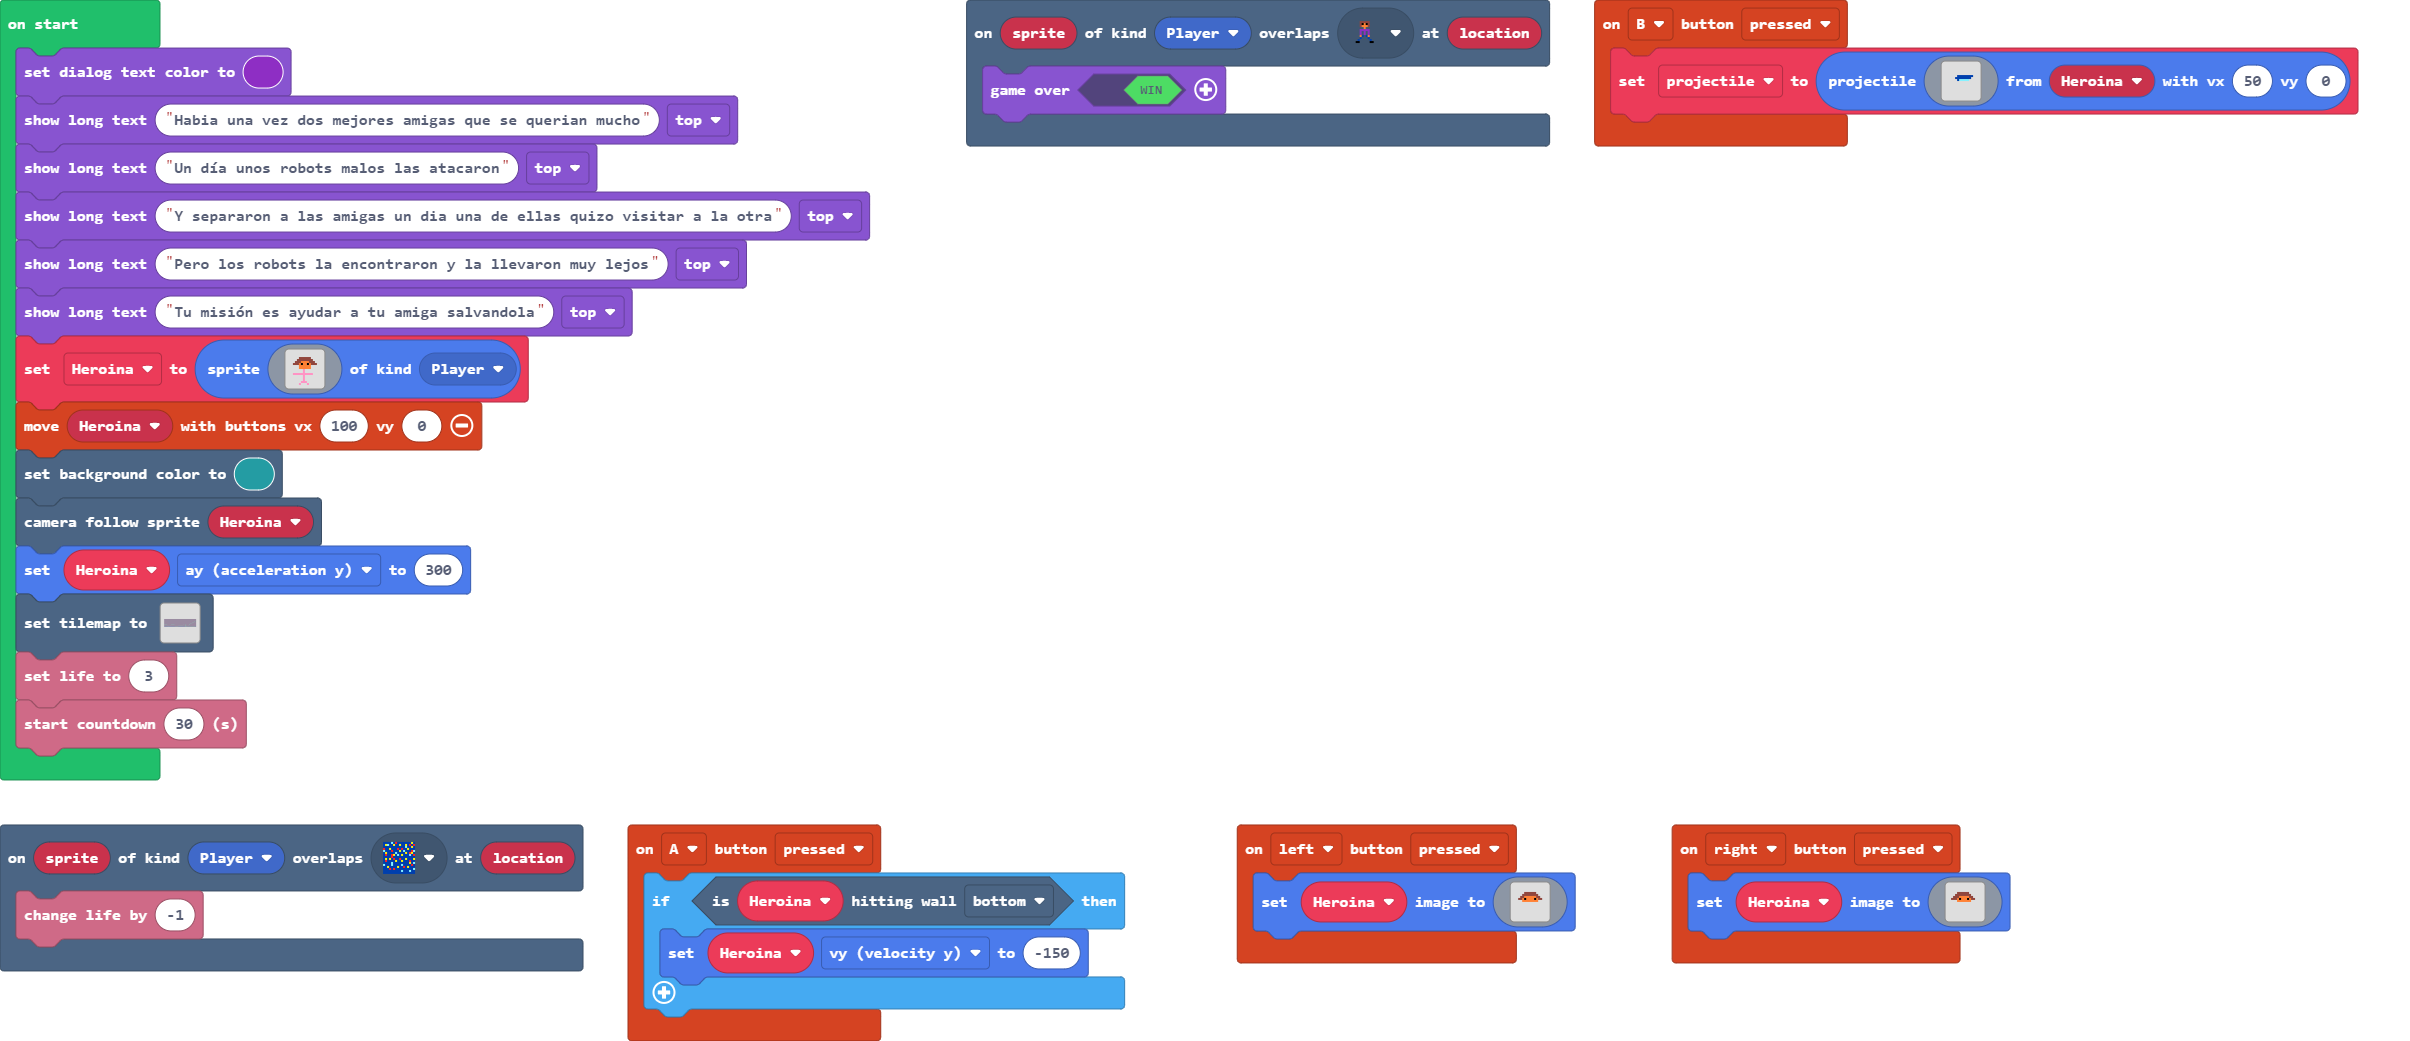
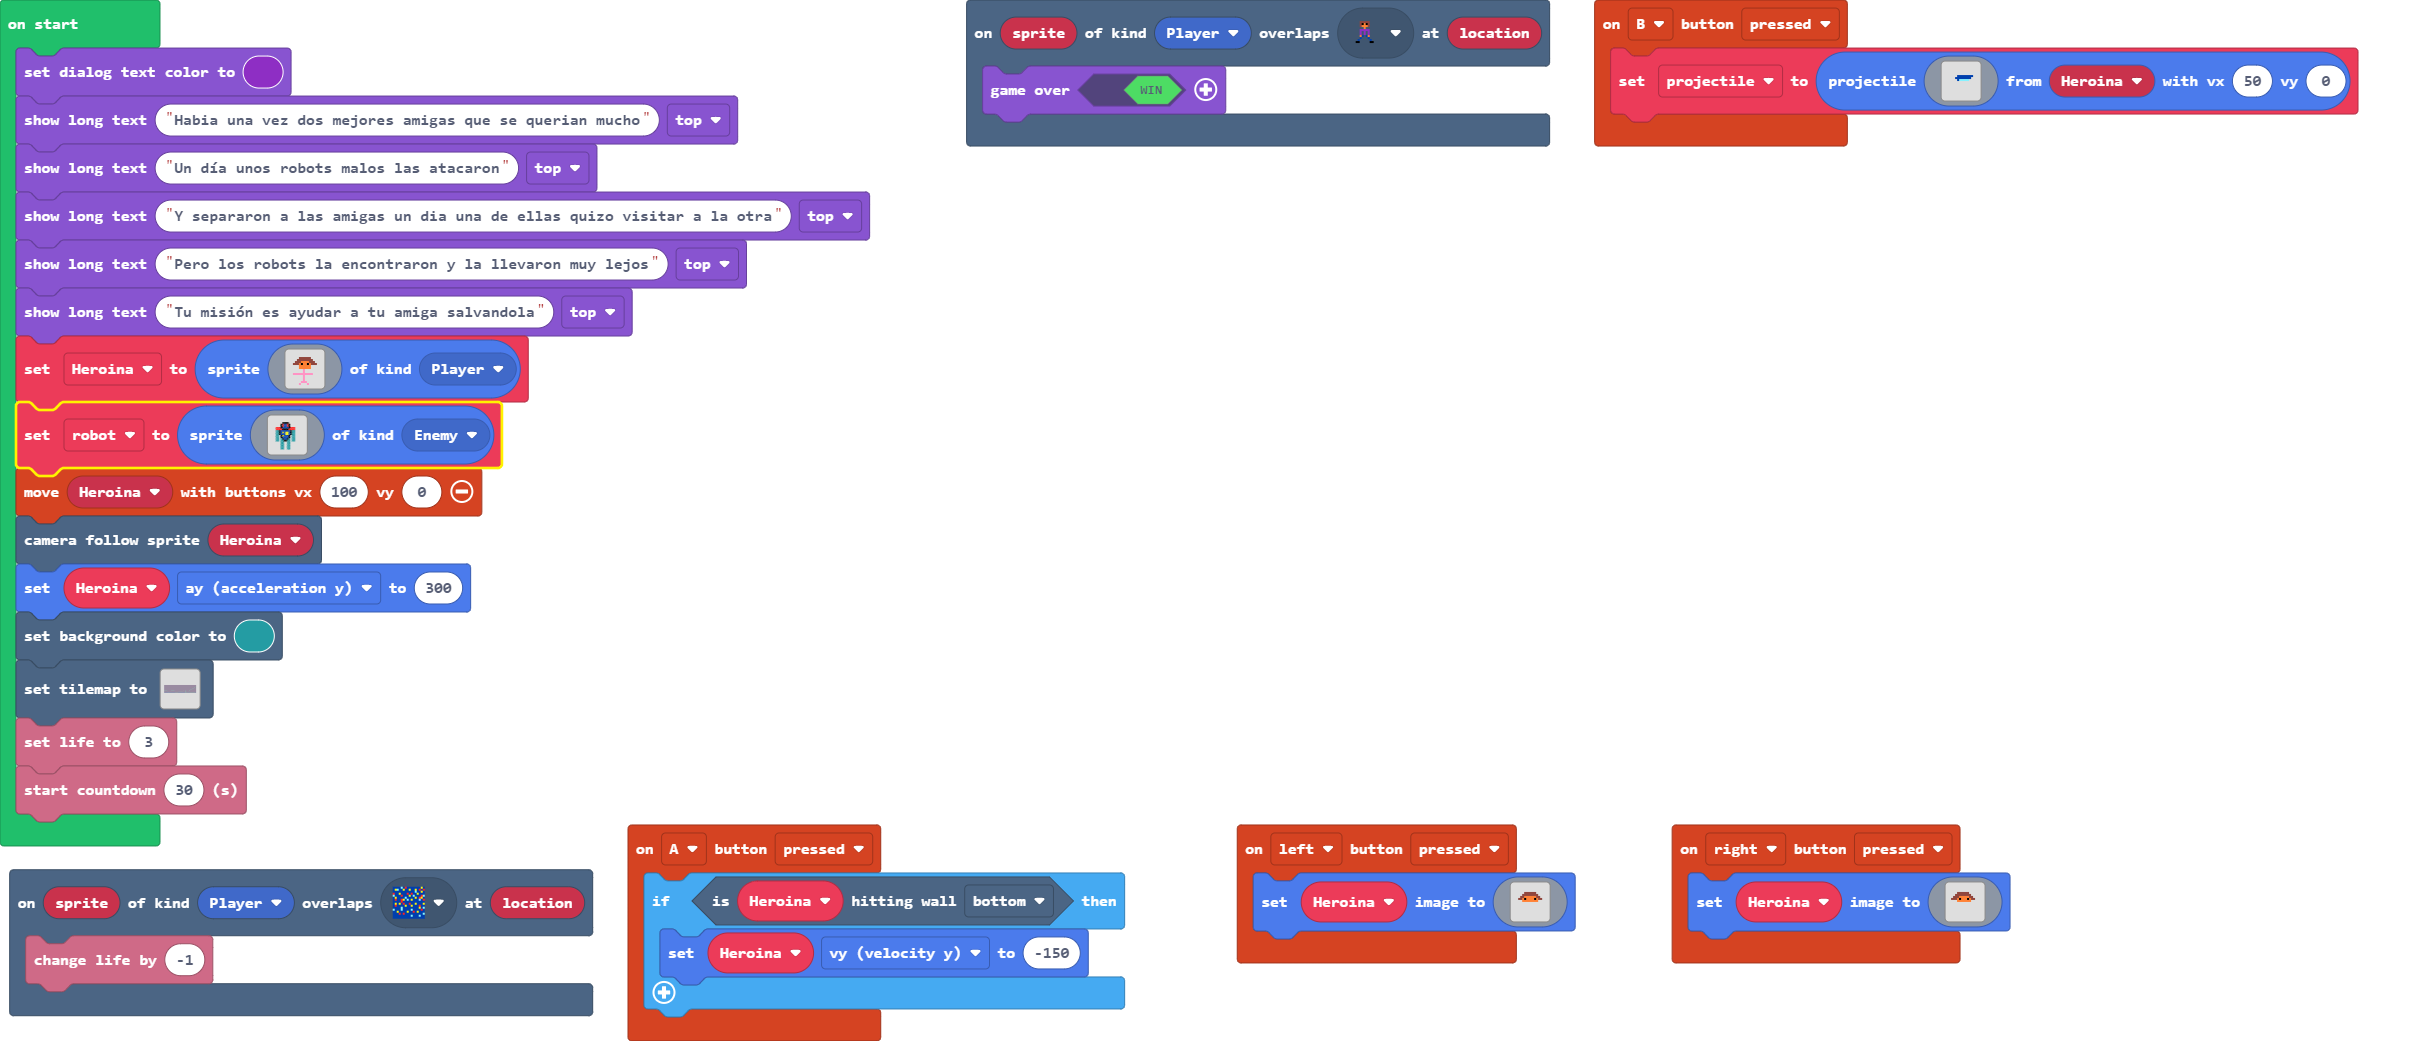
hice un nuevo sprite que es el robot

Changed region(s): [[0.0, 0.3689, 0.249, 0.9837]]

diff --git a/main.ts b/main.ts
@@ -98,10 +98,32 @@ Heroina = sprites.create(img`
     . . . . . . 3 3 3 . . . . . . . 
     . . . . . 3 . . . 3 . . . . . . 
     `, SpriteKind.Player)
+let robot = sprites.create(img`
+    . . . . . . . . . . . . . . . . 
+    . . . . . . . . . . . . . . . . 
+    . . . . . f f f f . . . . . . . 
+    . . . . f 2 8 8 2 f . . . . . . 
+    . . . . f 2 8 8 2 f . . . . . . 
+    . 2 2 2 f 8 8 8 8 f 2 2 2 . . . 
+    . 2 2 2 2 f f f f 2 2 2 2 . . . 
+    . 6 6 f 8 8 8 8 8 8 f 6 6 . . . 
+    . 6 6 f 8 5 8 5 5 8 f 6 6 . . . 
+    . 6 6 f 8 8 8 5 5 8 f 6 6 . . . 
+    . 6 6 . f 5 8 8 8 f . 6 6 . . . 
+    . 6 6 . f 8 8 8 8 f . 6 6 . . . 
+    . 6 6 . 6 f 8 8 f 6 . 6 6 . . . 
+    . 6 6 . 6 6 f f 6 6 . 6 6 . . . 
+    . . . . 6 6 . . 6 6 . . . . . . 
+    . . . . 6 6 . . 6 6 . . . . . . 
+    . . . . 6 6 . . 6 6 . . . . . . 
+    . . . . 6 6 . . 6 6 . . . . . . 
+    . . . . 6 6 . . 6 6 . . . . . . 
+    . . . . . . . . . . . . . . . . 
+    `, SpriteKind.Enemy)
 controller.moveSprite(Heroina, 100, 0)
-scene.setBackgroundColor(6)
 scene.cameraFollowSprite(Heroina)
 Heroina.ay = 300
+scene.setBackgroundColor(6)
 tiles.setTilemap(tiles.createTilemap(hex`4000100004040404040404040404040404040404040404040404040404040404040404040404040404040404040404040404040404040404040404040404040404040404040404040404040404040404040404040404040404040404040404040404040404040404040404040404040404040404040404040404040404040404040404040404040404040404040404040404040404040404040404040404040404040404040404040404040404040404040404040404040404040404040404040404040404040404040404040404040404040404040404040404040404040404040404040404040404040404040404040404040404040404040404040404040404040404040404040404040404040404040404040404040404040404040404040404040404040404040404040404040404040404040404040404040404040404040404020404040404040404040404040404040404040404040404040404040404040404040404040404040404040404040404040404040404040404040404040101010104040404040404040404040404040404040404040404040404040404040404040404040404040404040404040404040404040404040404040404010104040404040404040404040404040404040404040404040404040404040404040404040404040404040404040404040404040404040404040404040401010404040404040404040404040404040404040404040404040404040404040404040404040404040404040404040404040404040404040404040404040101040404040404040404040404040404040404040404040404040404040404040404040404040404040404040404040404040404040404040404040404010104040404040404040404040404040404040404040404040404040404040404040404040404040404040404040404040404010404040404040404040404010404040404040404040404040101010101010404040404040404010101010101010404040404040404040404040404040404040404040101040404040404010104040404040404040404040404040404040404040404040401040404040404040404040404040404040404040404040404010404040401010404040404010404040404040404040404040404040404040404010404040404040404040404040404040404040404040104010404010401040404040404010104040404040404040404040404040404040404040404040404040404040104040404040404040404040404040404040404040404040404040404040404040101040404040404040404040404040404040404040403030303030303030303030303030303030303030303010101010101030303030303030303030303030301010101010301030301010101010101010101010303`, img`
     . . . . . . . . . . . . . . . . . . . . . . . . . . . . . . . . . . . . . . . . . . . . . . . . . . . . . . . . . . . . . . . . 
     . . . . . . . . . . . . . . . . . . . . . . . . . . . . . . . . . . . . . . . . . . . . . . . . . . . . . . . . . . . . . . . . 
